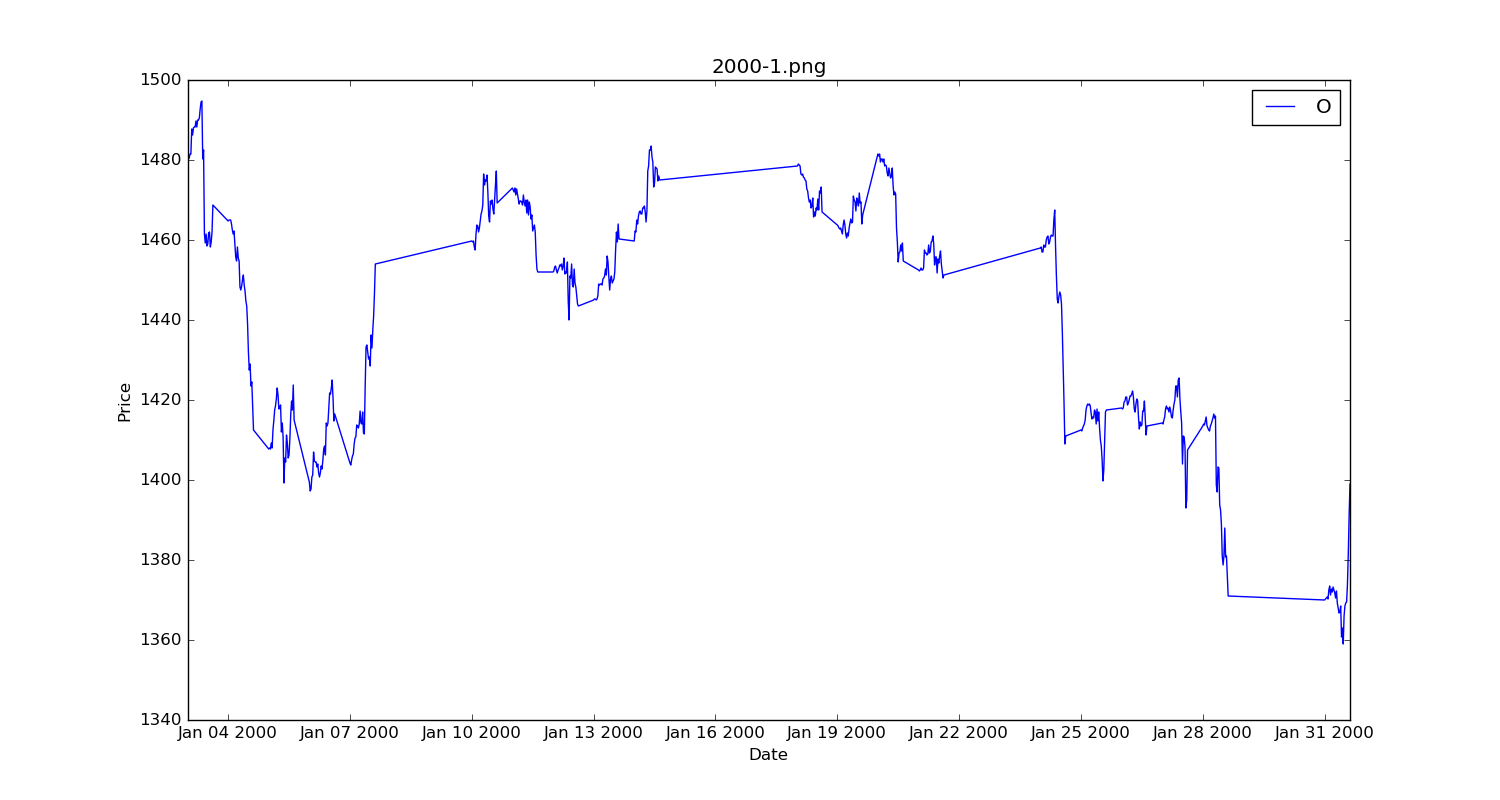
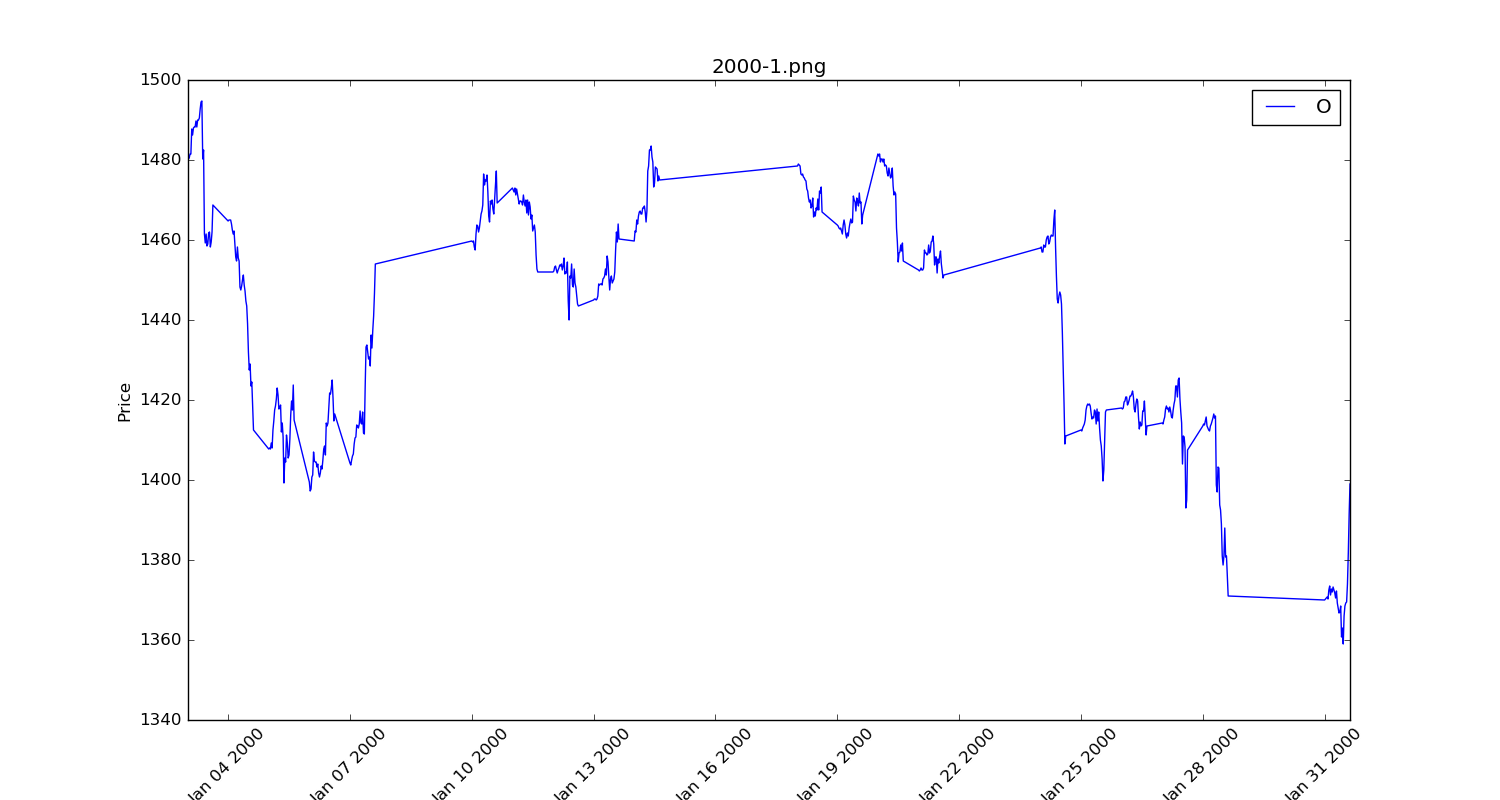
fixing

diff --git a/analize/charting_data.py b/analize/charting_data.py
@@ -15,6 +15,8 @@ for i in range(1):  # len(df.columns)):
     fig.set_size_inches((15,8))
     ax1 = plt.subplot2grid((1, 1), (0, 0))
     ax1.plot_date(price['DT'], price['O'],'-')
+    for label in ax1.xaxis.get_ticklabels():
+        label.set_rotation(45)
     plt.xlabel('Date')
     plt.ylabel('Price')
     name = "{}-{}.png".format(price['DT'][0].year, price['DT'][0].month)
